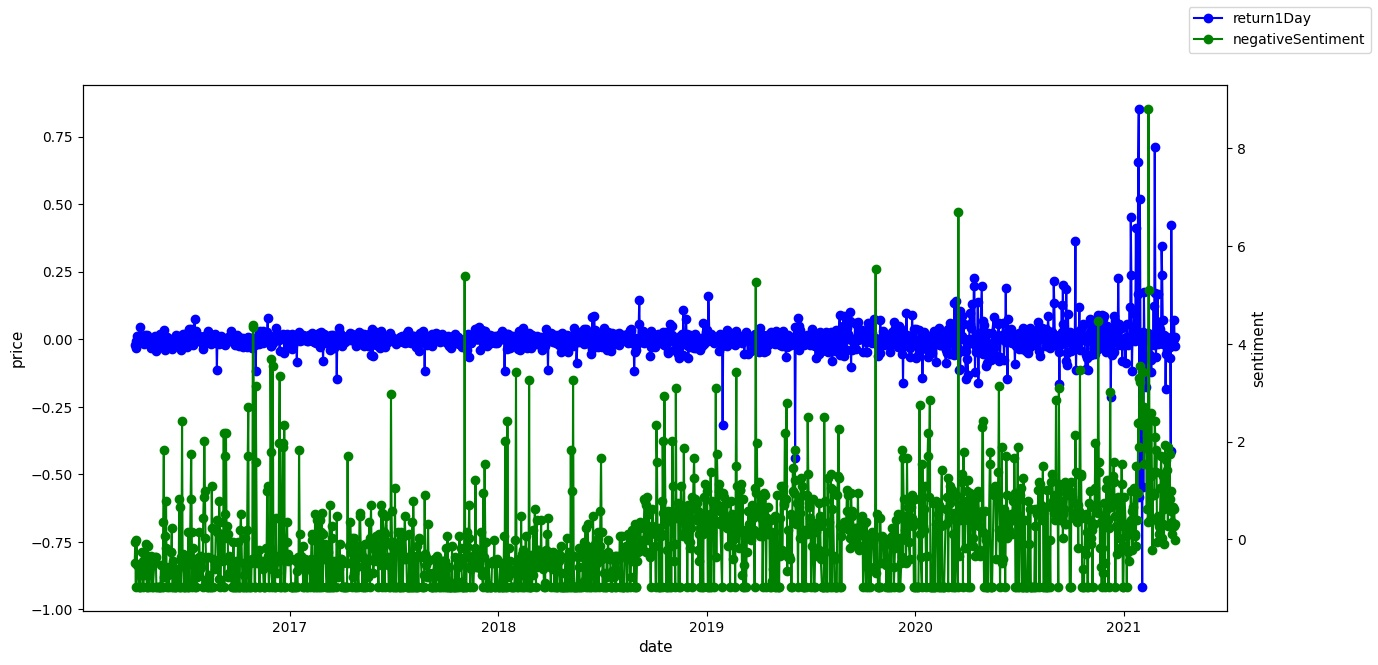
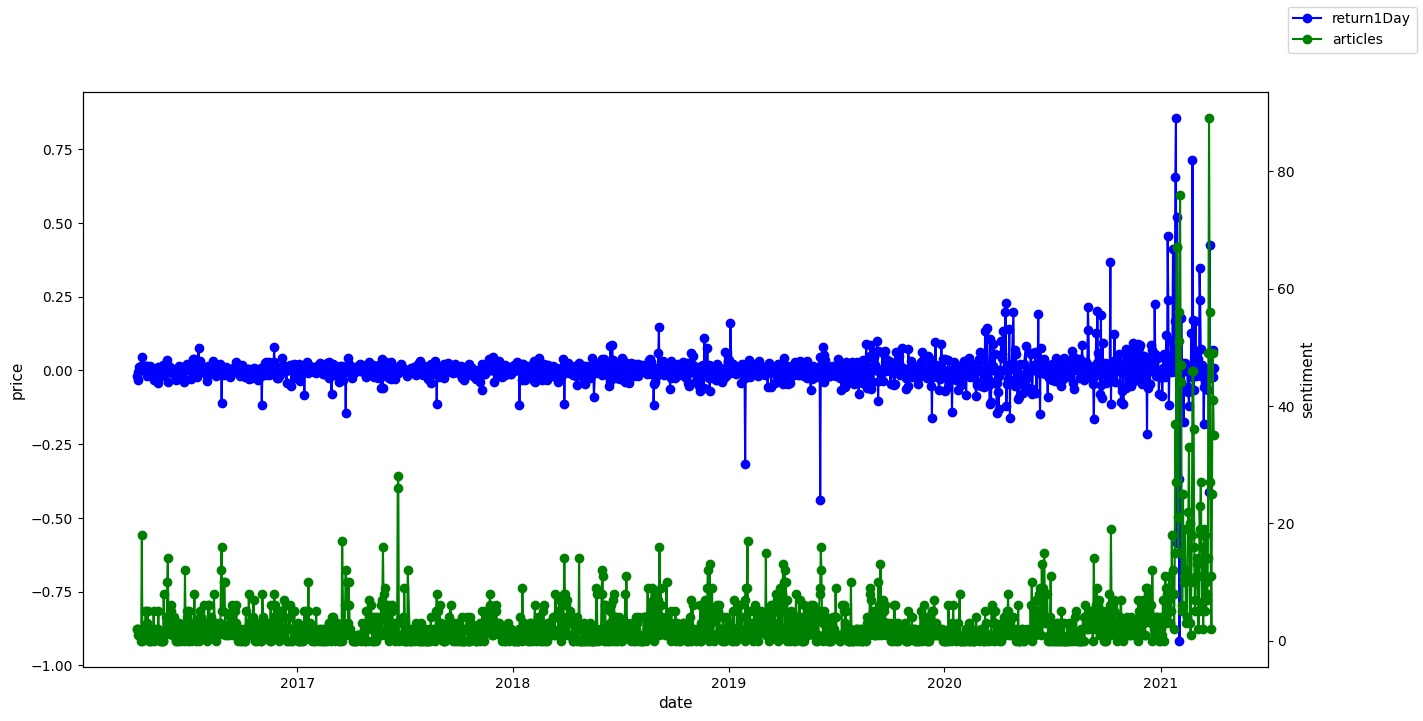
more graphs :)

diff --git a/IntelligentAnalysis.py b/IntelligentAnalysis.py
@@ -1,6 +1,6 @@
 from priceGatherer import getPrices, addReturns
 from sentimentExtractor import getArticleSentimentByDate, setSource, getZScores
-from dataGraphing import displayPriceVsSentiment
+from dataGraphing import displayPriceVsSentiment, displayHist
 from dataTabling import getExcel
 from dataCleanUp import getOverlappingSeries
 from returnEstimator import singlePointEstimator, getNextDayReturn
@@ -22,29 +22,38 @@ if __name__ == "__main__":
     prices = addReturns(prices)
     oPrices = addReturns(oPrices)
 
-    getExcel(prices, 'prices/prices')
-    displayPriceVsSentiment(oPrices, oSentiment, ['return1Day'], ['negativeSentiment'])
+    # getExcel(prices, 'prices/prices')
+    # displayPriceVsSentiment(oPrices, oSentiment, ['return1Day'], ['negativeSentiment'])
     # displayPriceVsSentiment(oPrices, oSentiment, ['return1Day'], ['articles'])
-    # sModel, sAccuracy = singlePointEstimator(oPrices, oSentiment, ['close', 'high', 'low', 'openPrice', 'volume', 'return1Day', 'return7Day', 'return14Day', 'return21Day'], ['articles', 'totalWords', 'negativeSentiment', 'positiveSentiment'])
+    # sModel, sAccuracy = singlePointEstimator(oPrices, oSentiment, ['close', 'volume', 'return1Day', 'return7Day', 'return14Day', 'return21Day'], ['articles', 'totalWords', 'negativeSentiment', 'positiveSentiment'])
     # print(sAccuracy)
     # print(getNextDayReturn(oPrices, oSentiment))
-    # returnsCorr = getAutoCorrelationWithLags(prices, 'return1Day', 1, 5)
-    # print(returnsCorr)
-    # priceCorr = getAutoCorrelationWithLags(prices, 'close', 0, 5)
-    # print(priceCorr)
-    # a, b, c = getReturnSentimentCorrelations(oPrices, oSentiment)
-    # print(a)
-    # print(b)
-    # print(c)
-    # returns = []
-    # for i in range(1, len(prices)):
-    #     returns.append(prices[i]['return1Day'])
-    # getDescriptiveStatistics(returns, "1 Day Returns")
-    # closingPrices = []
-    # for p in prices:
-    #     closingPrices.append(p['close'])
-    # getDescriptiveStatistics(closingPrices, "Closing Prices")
-    # negSentiment = []
-    # for n in sentiment:
-    #     negSentiment.append(n['negativeSentiment'])
-    # getDescriptiveStatistics(negSentiment, "Negative Sentiment")
+    # lag = 5
+    # returnsCorr = getAutoCorrelationWithLags(prices, 'return1Day', 1, lag)
+    # print("Returns Correlation")
+    # for i in range(lag):
+    #     print(i + 1, "day lag", returnsCorr[i])
+    # priceCorr = getAutoCorrelationWithLags(prices, 'close', 0, lag)
+    # print("Prices Correlation")
+    # for i in range(lag):
+    #     print(i + 1, "day lag", priceCorr[i])
+    # sameDayCorr, returnSentCorr, sentReturnCorr = getReturnSentimentCorrelations(oPrices, oSentiment)
+    # print("Return/Sentiment Correlation")
+    # print("same day", sameDayCorr)
+    # print("return to sentiment", returnSentCorr)
+    # print("sentiment to return", sentReturnCorr)
+    returns = []
+    for i in range(1, len(prices)):
+        returns.append(prices[i]['return1Day'])
+    getDescriptiveStatistics(returns, "1 Day Returns")
+    displayHist(returns, 100, "1 day returns")
+    closingPrices = []
+    for p in prices:
+        closingPrices.append(p['close'])
+    getDescriptiveStatistics(closingPrices, "Closing Prices")
+    displayHist(closingPrices, 100, "closing prices")
+    negSentiment = []
+    for n in sentiment:
+        negSentiment.append(n['negativeSentiment'])
+    getDescriptiveStatistics(negSentiment, "Negative Sentiment")
+    displayHist(negSentiment, 100, "negative sentiment")

diff --git a/dataCleanUp.py b/dataCleanUp.py
@@ -37,7 +37,7 @@ def getOverlappingSeries(prices, sentiment):
         if(greaterThanDate(sentiment[i]['date'], prices[i]['date'])):
             sentiment.insert(i, {'date': prices[i]['date'], 'articles': 0, 'totalWords': 0, 'positiveSentiment': 0, 'negativeSentiment': 0})
         elif(greaterThanDate(prices[i]['date'], sentiment[i]['date'])):
-            prices.insert(i, {'date': sentiment[i]['date'], 'close': prices[i - 1]['close'], 'high': prices[i - 1]['close'], 'low': prices[i - 1]['close'], 'openPrice': prices[i - 1]['close'], 'symbol': prices[i]['symbol'], 'volume': 0})
+            prices.insert(i, {'date': sentiment[i]['date'], 'close': prices[i - 1]['close'], 'symbol': prices[i]['symbol'], 'volume': 0})
         else:
             i += 1
     return prices, sentiment

diff --git a/priceGatherer.py b/priceGatherer.py
@@ -7,15 +7,12 @@ import os
 pricesFilename = "./prices/prices.json"
 
 def filterKeys(data):
-    keys = [ 'date', 'close', 'high', 'low', 'open', 'symbol', 'volume' ]
+    keys = [ 'date', 'close', 'symbol', 'volume' ]
     nData = []
     for entry in data:
         filteredEntry = {}
         for key in keys:
-            if(key == 'open'):
-                filteredEntry['openPrice'] = entry[key]
-            else:
-                filteredEntry[key] = entry[key]
+            filteredEntry[key] = entry[key]
         nData.append(filteredEntry)
     return nData
 

diff --git a/dataGraphing.py b/dataGraphing.py
@@ -56,3 +56,11 @@ def displayPriceVsSentiment(prices, sentiment, pricesColumns, sentimentColumns):
                 format='jpeg',
                 dpi=100,
                 bbox_inches='tight')
+
+def displayHist(x, bins, name):
+    import seaborn as sns
+    sns.set_style("white")
+    sns.distplot(x, bins=bins)
+    plt.xlabel(name)
+    plt.ylabel("Frequency")
+    plt.show()

diff --git a/descriptiveStatistics.py b/descriptiveStatistics.py
@@ -3,7 +3,7 @@ import numpy as np
 import scipy.stats as stats
 
 def getDescriptiveStatistics(array, name):
-    print(name)
+    print(name, "Descriptive Statistics")
     # Mean
     print("Mean", statistics.mean(array))
     # Standard Error

diff --git a/README.md b/README.md
@@ -2,6 +2,7 @@
 
 ## Todo List
 
+- [ ] Download RTF without formatting, the fix the rtf extractor
 - [ ] More models for single point estimator
 - [ ] results comparisons
 - [ ] predict next day return instead of T/F
